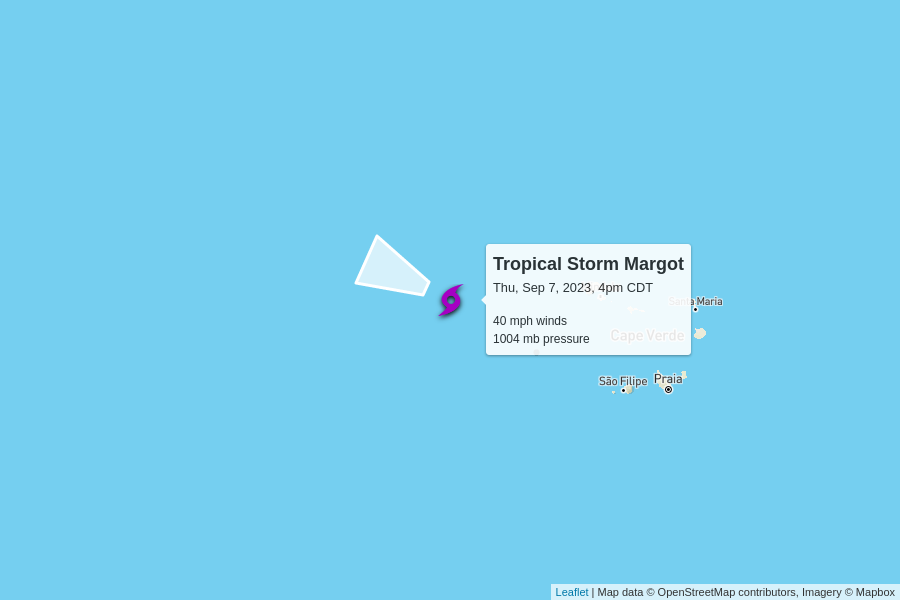
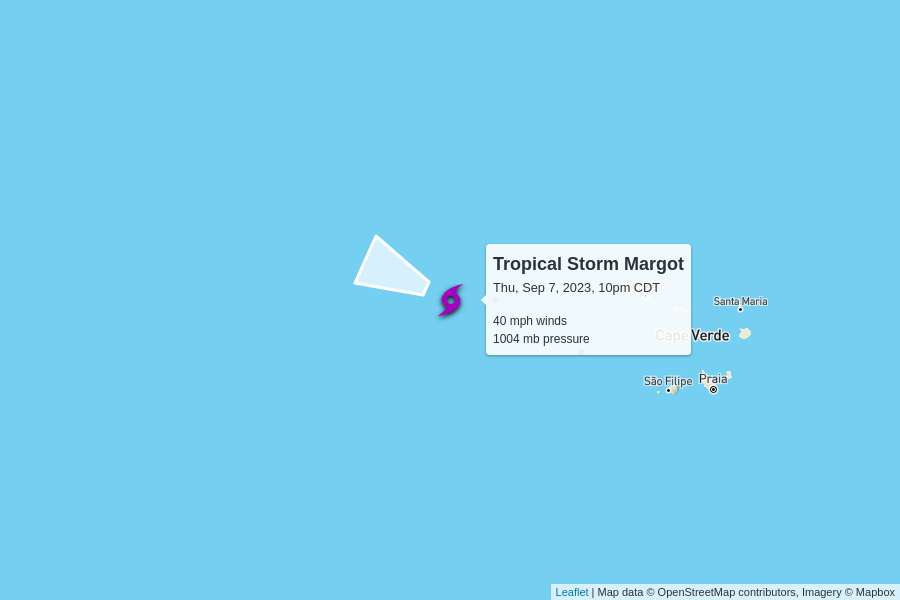
automatic update

diff --git a/docs/index.html b/docs/index.html
@@ -101,10 +101,10 @@
 
     <table>
       <tr>
-        <td colspan="6" class="storm category-4" >
+        <td colspan="6" class="storm category-5" >
           <h2>
-            Hurricane Lee - Category 4
-            <p class="updated">last updated <span data-time>2023-09-07T21:00:00.000Z</span></p>
+            Hurricane Lee - Category 5
+            <p class="updated">last updated <span data-time>2023-09-08T03:00:00.000Z</span></p>
           </h2>
         </td>
       </tr>
@@ -119,10 +119,10 @@
       </tr>
       <tr>
         <td class="spacer"></td>
-        <td>130 mph<br>+25 mph since last update</td>
-        <td>953 mb<br>-30 mb since last update</td>
+        <td>160 mph<br>+30 mph since last update</td>
+        <td>928 mb<br>-25 mb since last update</td>
         <td>
-          15 mph to the west-northwest
+          14 mph to the west-northwest
           <br/>
           <span style="display: inline-block; font-size: 1.5em; transform: rotate(295deg);">↑</span>
         </td>
@@ -148,7 +148,7 @@
         <td colspan="6" class="storm category-0" >
           <h2>
             Tropical Storm Margot
-            <p class="updated">last updated <span data-time>2023-09-07T21:00:00.000Z</span></p>
+            <p class="updated">last updated <span data-time>2023-09-08T03:00:00.000Z</span></p>
           </h2>
         </td>
       </tr>
@@ -163,10 +163,10 @@
       </tr>
       <tr>
         <td class="spacer"></td>
-        <td>40 mph<br>+5 mph since last update</td>
-        <td>1004 mb<br>-1 mb since last update</td>
+        <td>40 mph<br>0 mph since last update</td>
+        <td>1004 mb<br>0 mb since last update</td>
         <td>
-          17 mph to the west-northwest
+          16 mph to the west-northwest
           <br/>
           <span style="display: inline-block; font-size: 1.5em; transform: rotate(295deg);">↑</span>
         </td>
